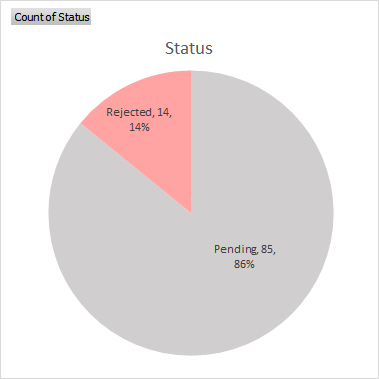
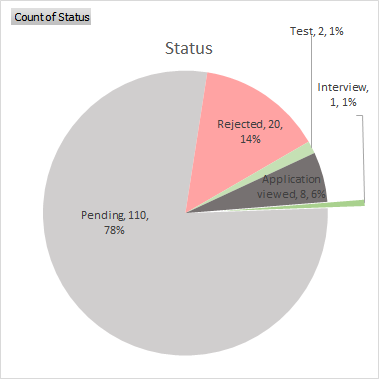
Update

diff --git a/jobs.html b/jobs.html
@@ -47,7 +47,7 @@
 								I've been applying to several jobs a day for the last few months, with no success, all while working a fulltime job in a field that has
 								no correlation with my field of study whatsoever. The current record is held by a video game company which rejected me in a mere <b>35 minutes</b>
 								for the role of "physics gameplay programmer", which I thought was basically my field of speciality, combining both the knowledge of physics and
-								software development. My interview count is currently a mere <b>2 interviews</b>. I rarely make it past the pre-screening stage, because 
+								software development. My interview count is currently a mere <b>3 interviews</b>. I rarely make it past the pre-screening stage, because 
 								I imagine that human resources do not like seeing my resume pop up on their computer with the wrong major.
 							</p>
 
@@ -127,7 +127,7 @@
 					<ul class="menu">
 						<li>&copy; Samuel Careau. All rights reserved.</li>
 						<li>Design: <a href="http://html5up.net">HTML5 UP</a></li>
-						<li>Last Updated 2023-10-09</li>
+						<li>Last Updated 2023-10-22</li>
 					</ul>
 				</div>
 			</footer>
